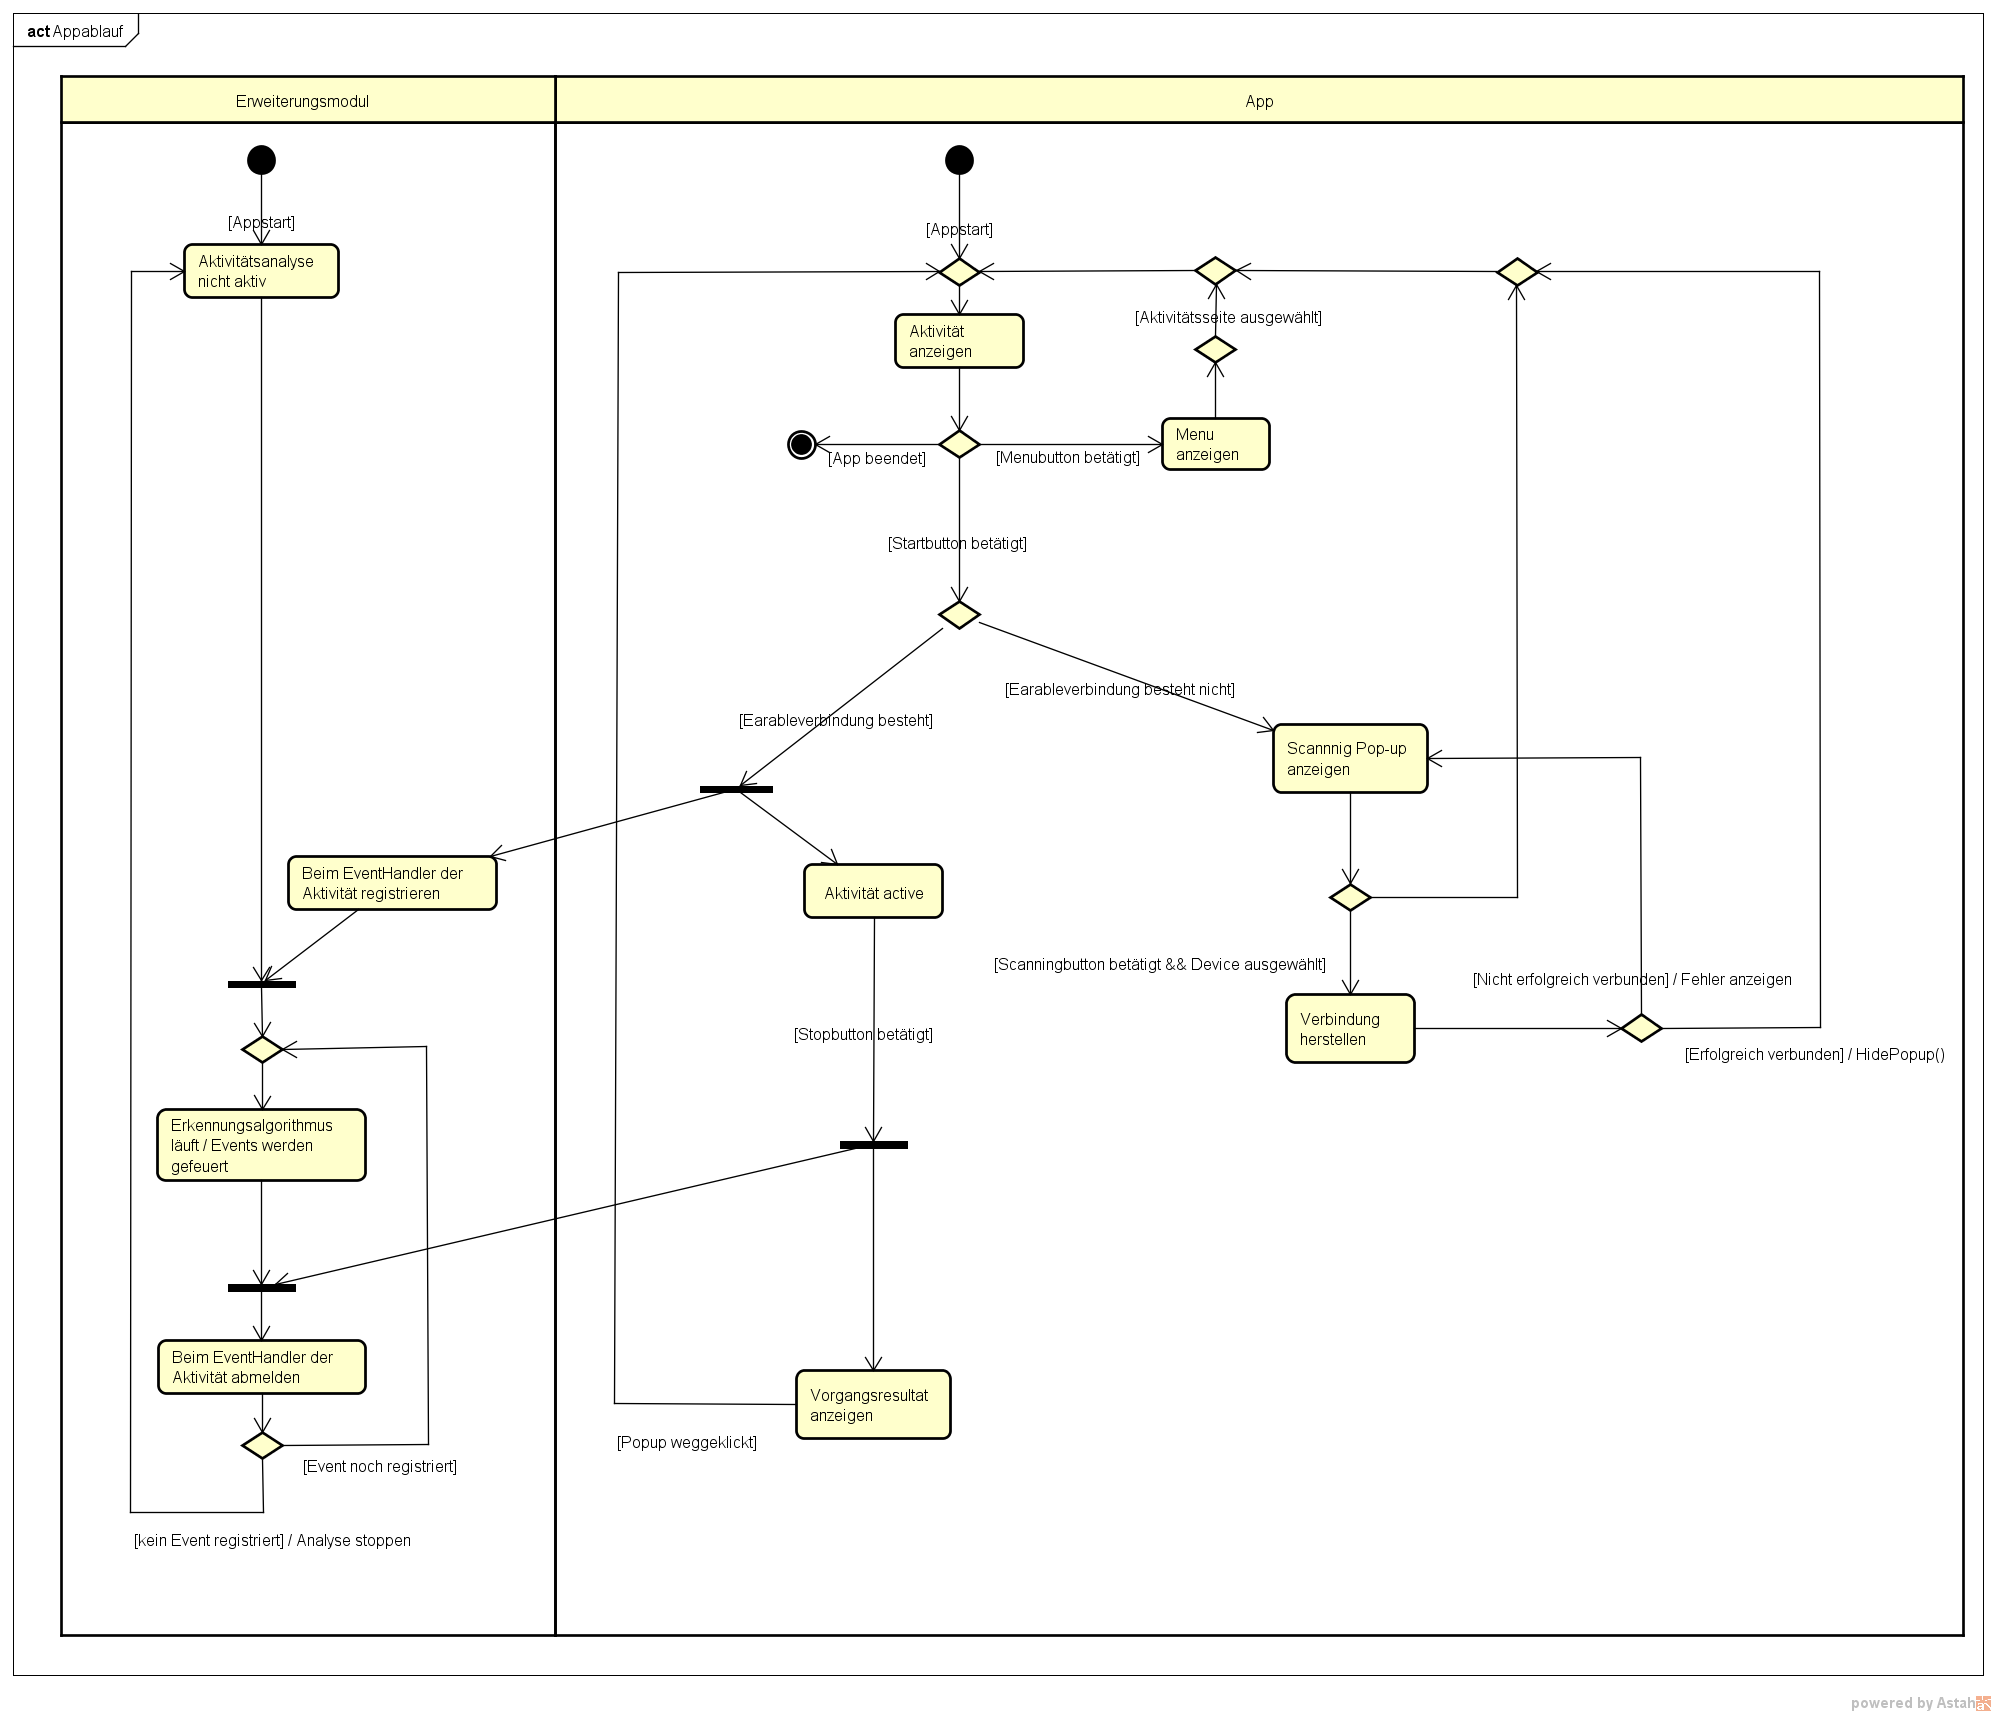
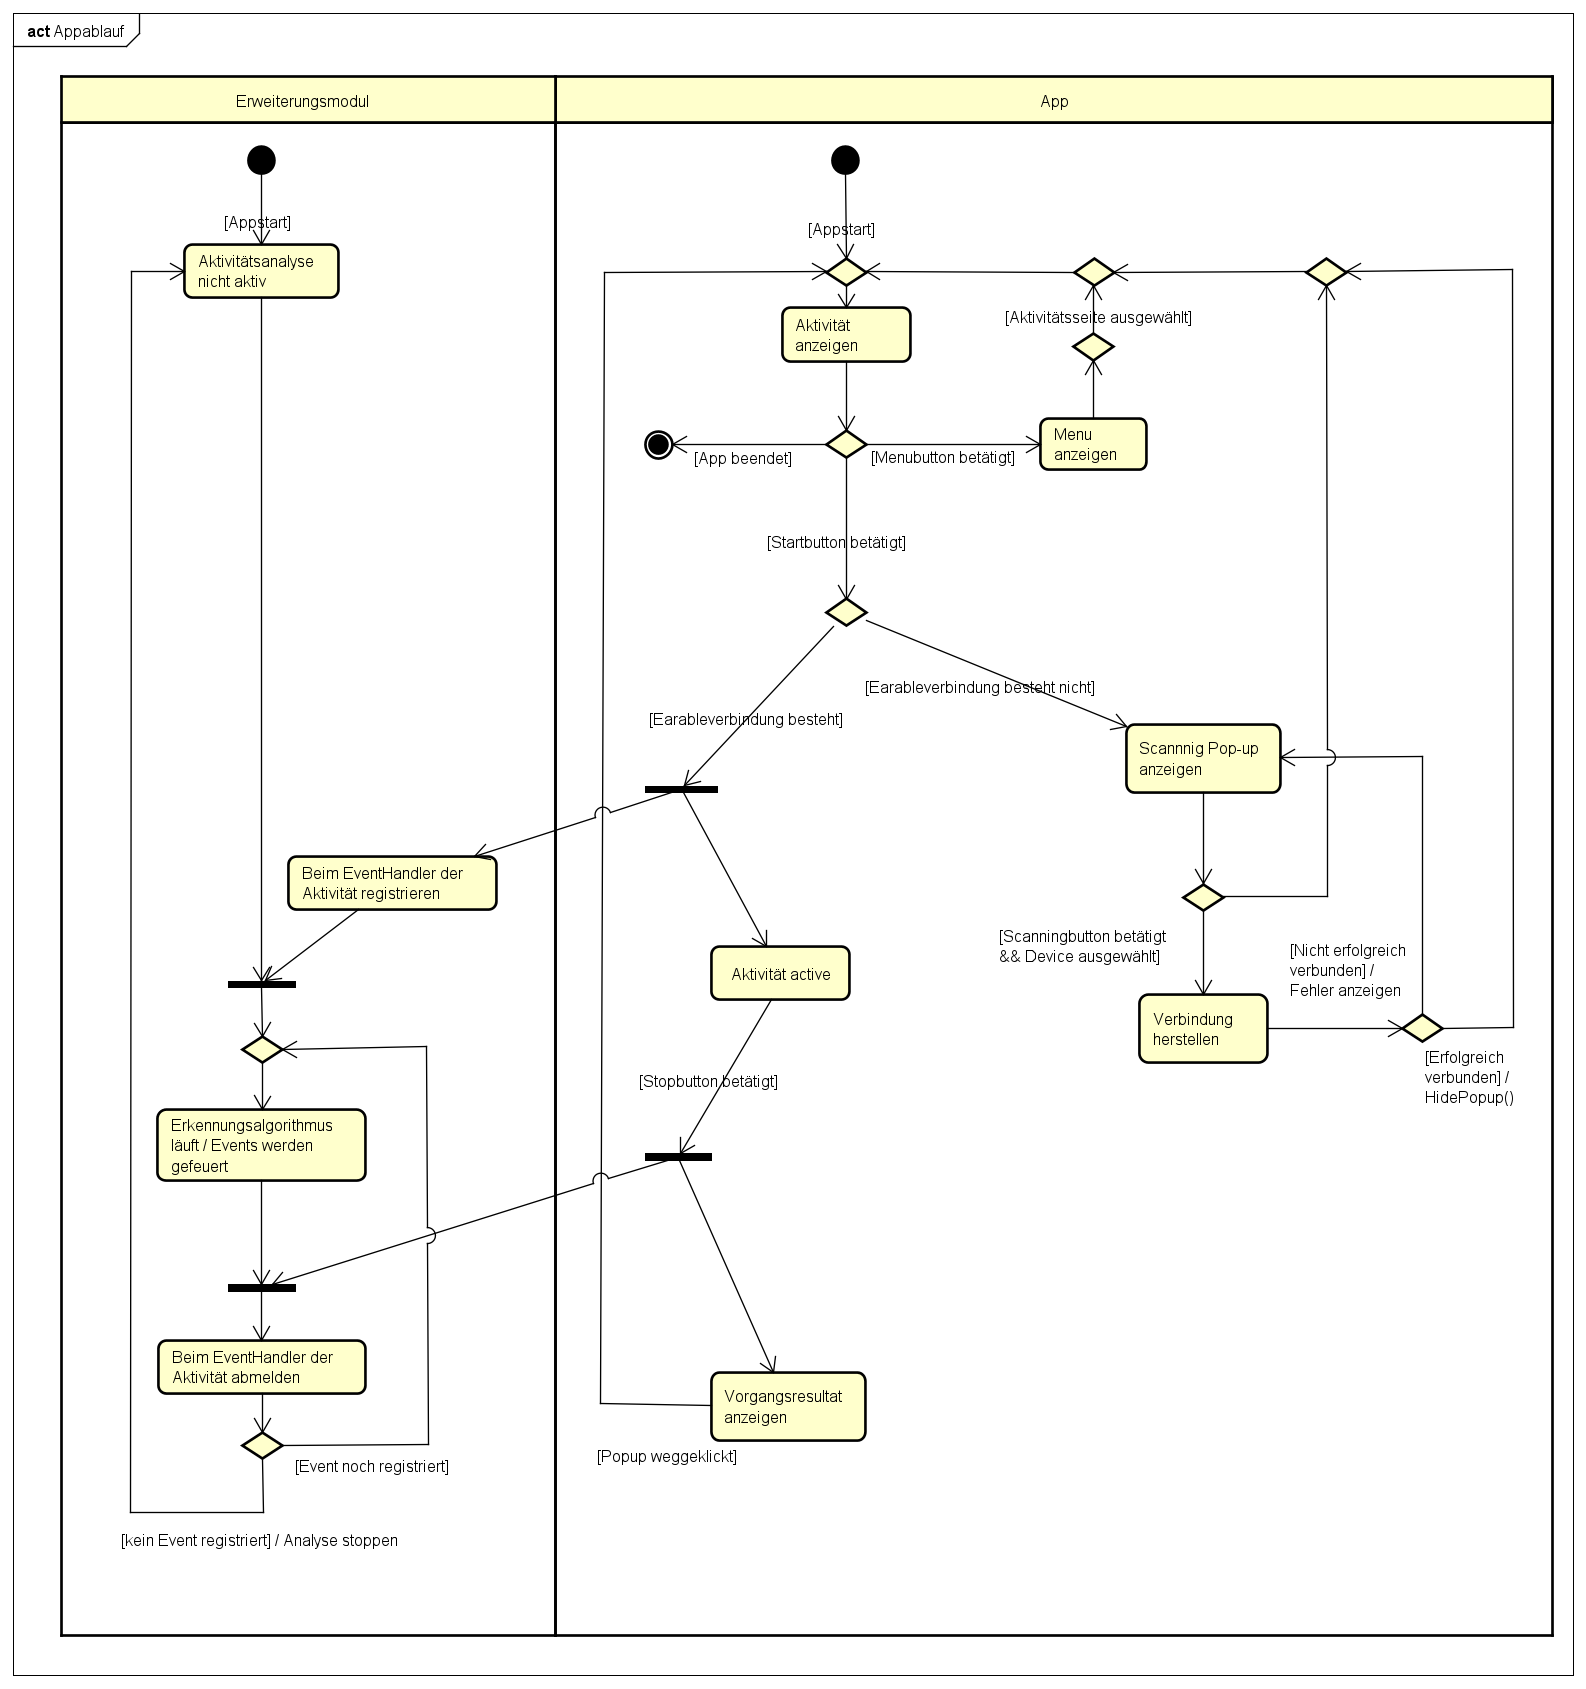
Sequenzdiagramme hinzugefügt

diff --git a/Entwurf/Entwurfsdokument/entwurfprotokoll.tex b/Entwurf/Entwurfsdokument/entwurfprotokoll.tex
@@ -1126,8 +1126,11 @@ Die Klasse stellt die komplette Ansicht des Musicmodes dar. Beim Starten des Mus
 		\begin{itemize}
 			\item [+] \textbf{<<create>> MenuPage()} Im Konstruktor wird menuItems mit allen gewünschten Seiten initialisiert und den menuItems wird ein Event, das bei Auswählen eines Items gefeuert wird, hinzugefügt. Dieses veranlasst die Navigation zu dieser Seite mittels der MainPage.
 		\end{itemize}
+	
+\newpage
 \section{Interaktionsdiagramme}
-\subsection{Aktivitätsdiagramm Lauschen und Agieren}
+\subsection{Aktivitätsdiagramm Lebenszyklus der App}
+\includegraphics[width=1.1\textwidth]{./Diagramme/Appablauf.png}
 \subsection{Sequenzdiagramme}
 
 
@@ -1135,23 +1138,30 @@ Die Klasse stellt die komplette Ansicht des Musicmodes dar. Beim Starten des Mus
 %brauchen wir den unterpunkt "abläufe in der app" alle sqd die wir haben beziehen sich doch auch auf die App
 \subsubsection{Abläufe in der App}
 
+\paragraph{Start der App}
+
+\includegraphics[width=1.1\textwidth]{./Diagramme/AppstartSeqDia.png}
+
+
 \paragraph{Bluetoothverbindung mit den Earables herstellen:}
 Das folgende Sequenzdiagramm verdeutlicht wie eine Bluetoothverbindung hergestellt werden kann. Es wir davon ausgegangen, dass die App bereits gestartet wurde und noch keine Bluetoothverbindung zu den Earables besteht. Außerdem zeigt die App geraden die Seite des Laufmodus an und das PopUpViemwmodel kennt den Service der EarablesConnection bereits.\\
 
-
-
-
-
 \includegraphics[width=1.1\textwidth]{./Diagramme/Verbindungsaufbausequenzdiagramm.png}
+
+\paragraph{Navigationsmenu Page auswählen}
+
+\includegraphics[width=1.1\textwidth]{./Diagramme/NavigationsMenuSeqDia.png}
+
+
+\paragraph{Zählvorgang}
+\includegraphics[width=1.1\textwidth]{./Diagramme/CountModeSeqDia.png}
+
 
 \paragraph{Export Trainingsdaten:}
 \includegraphics[width=1.1\textwidth]{./Diagramme/TrainingsDatenExport_Sequenz.png}
 
 \paragraph{Änderung der Samplerate:}
 \includegraphics[width=1.1\textwidth]{./Diagramme/SetSampleRateSeqDia.png}
-
-Programmstart
-Sprache Ändern
 
 \section{Entwurfdaten}
 \subsection{Ressourcenverzeichnis}
